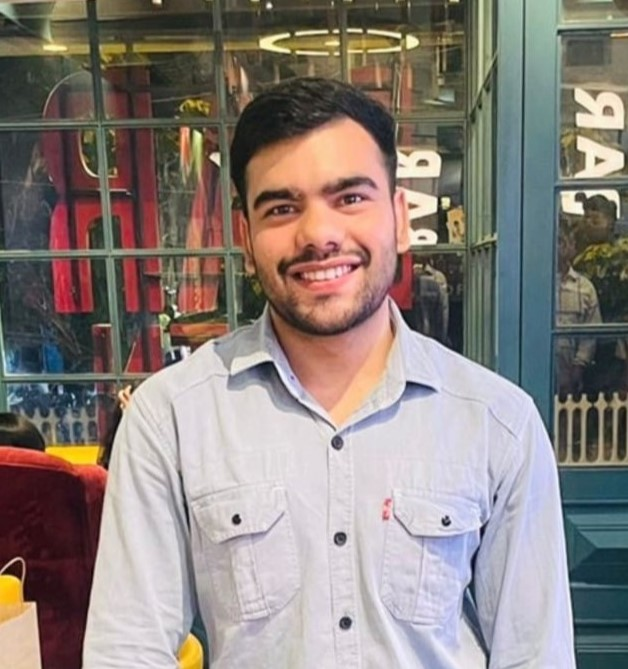
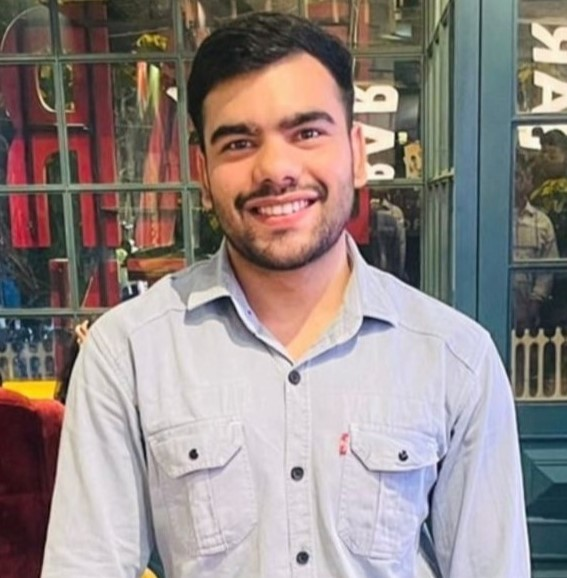
img updated

diff --git a/index.css b/index.css
@@ -20,6 +20,7 @@
     color: white;
   }
   body.dark #about-gif>img{
+  
     box-shadow: rgb(57, 134, 217) 0px 20px 30px -10px;
   }
   #nav-menu.dark{
@@ -259,9 +260,9 @@
   }
   #about-gif>img{
     /* border: solid red; */
-    width: 500px;
+    width: 450px;
     box-shadow: rgb(57, 134, 217) 0px 20px 30px -10px;
-    /* height: 350px; */
+    height: 330px;
     border-radius: 50px;  
     
   
@@ -269,9 +270,9 @@
   
   .home-img {
     width: 250px;
-    border-radius:70px;
+    border-radius:50px;
     margin: 40px 0 0 0;
-    box-shadow: rgb(57, 134, 217) 0px 20px 30px -10px;
+    /* box-shadow: rgb(57, 134, 217) 0px 20px 30px -10px; */
     transition: transform .5s;
   }
   .home-img:hover{

diff --git a/index.html b/index.html
@@ -136,7 +136,7 @@
             </a>
           </div>
           <div>
-            <img class="home-img" src="./image/pic.jpeg" alt="" />
+            <img class="home-img" src="./image/picNew.jpeg" alt="" />
           </div>
         </div>
       </div>
